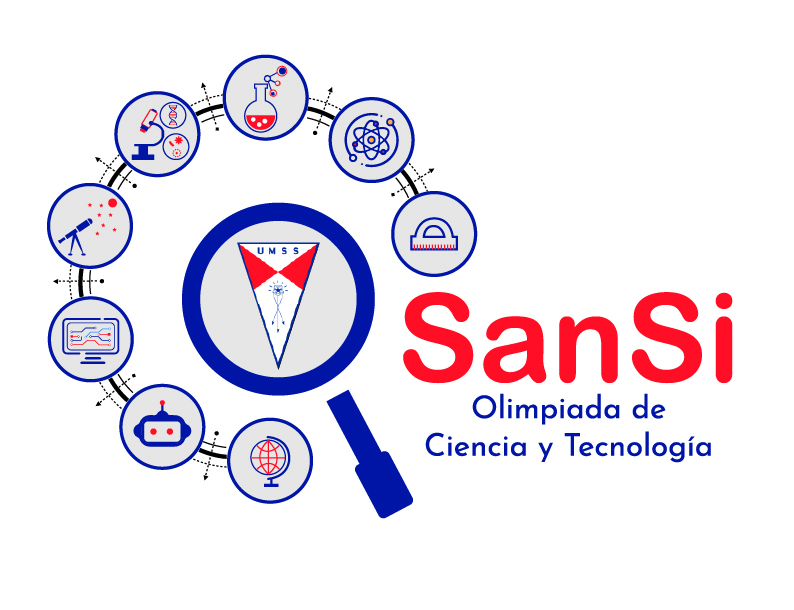
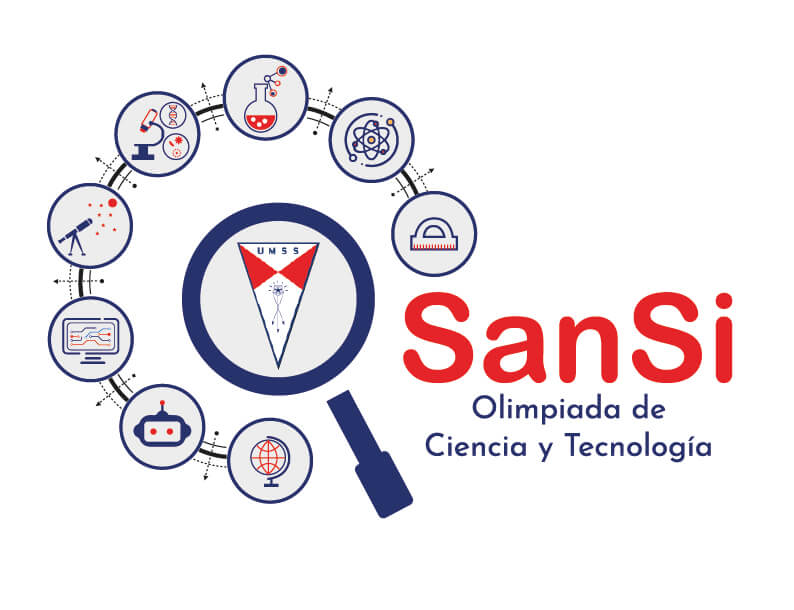
imagenes optimizadas

Changed region(s): [[0.0605, 0.0934, 0.937, 0.841]]

diff --git a/vite.config.ts b/vite.config.ts
@@ -15,7 +15,7 @@ export default defineConfig({
             ext: '.gz',
             deleteOriginFile: false,
         }),
-        // Add Brotli compression for better compression ratios
+
         compression({
             algorithm: 'brotliCompress',
             ext: '.br',
@@ -28,13 +28,13 @@ export default defineConfig({
         },
     },
     build: {
-        // Enable source maps for debugging
+
         sourcemap: false,
-        // Optimize chunk size
+
         rollupOptions: {
             output: {
                 manualChunks: {
-                    // Separate vendor libraries
+
                     vendor: ['react', 'react-dom'],
                     router: ['react-router-dom'],
                     ui: ['lucide-react'],

diff --git a/src/components/SectionVideoTutorial.tsx b/src/components/SectionVideoTutorial.tsx
@@ -2,7 +2,7 @@ import { Card } from "@/components/ui/card";
 import { useState } from "react";
 import { Play } from "lucide-react";
 
-const LOGO_SRC = "/logo-sansimon.png";
+const LOGO_SRC = "/cutieLogo.png";
 
 interface VideoCardProps {
   title: string;
@@ -27,7 +27,7 @@ const VideoCard = ({ title, videoId }: VideoCardProps) => {
             <img
               src={LOGO_SRC}
               alt="Logo SanSi"
-              className="w-32 h-32 object-contain z-10"
+              className="w-200 h-200 object-contain z-10"
               style={{ position: 'absolute', left: '50%', top: '50%', transform: 'translate(-50%, -50%)' }}
               draggable={false}
             />
